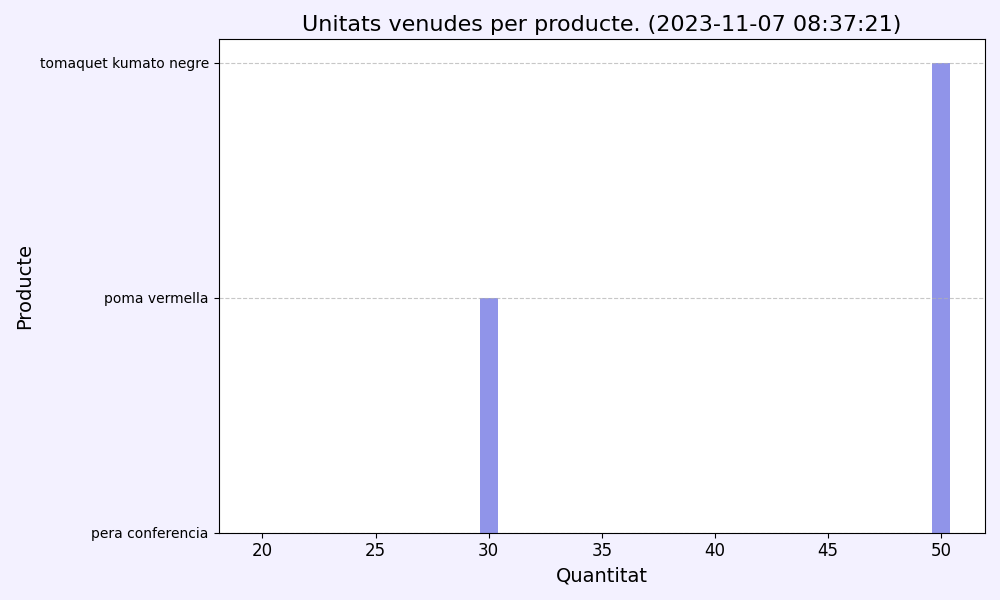
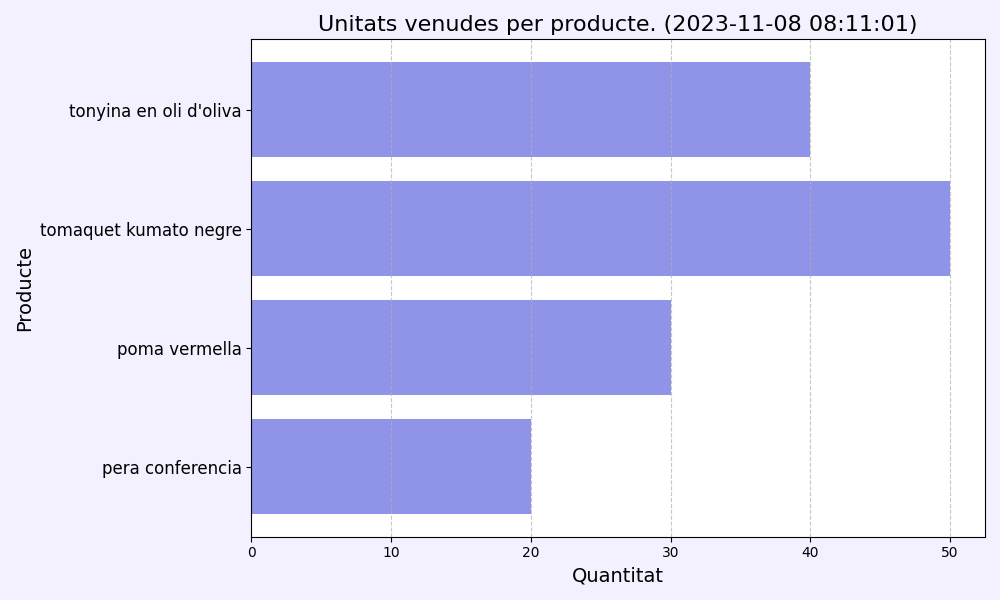
grafics de python amb disseny horitzontal

diff --git a/backend/node/estadistiques.py b/backend/node/estadistiques.py
@@ -46,11 +46,11 @@ def obtener_productos_vendidos(cursor):
 
 
 def graficoCantidadVendida(df, filename):
-    """Crea un gráfico de barras a partir de un DataFrame."""
+    """Crea un gráfico de barras horizontales a partir de un DataFrame."""
     plt.figure(figsize=(10, 6), facecolor='#f3f1ff')  # Establecer el color de fondo de toda la figura
     
-    # Crear un gráfico de barras con puntas redondas y color personalizado
-    plt.bar(df['cantidad_vendida'], df['producto'], color='#9094e9', capstyle='round')
+    # Crear un gráfico de barras horizontales con puntas redondas y color personalizado
+    plt.barh(df['producto'], df['cantidad_vendida'], color='#9094e9', capstyle='round')
     
     # Obtener la fecha actual
     fecha_actual = datetime.now().strftime('%Y-%m-%d %H:%M:%S')
@@ -58,12 +58,12 @@ def graficoCantidadVendida(df, filename):
     # Utilizar la fecha actual en el título del gráfico
     plt.title(f'Unitats venudes per producte. ({fecha_actual})', fontsize=16)
    
-    plt.xticks(fontsize=12)
-    plt.ylabel('Producte', fontsize=14)
+    plt.yticks(fontsize=12)
     plt.xlabel('Quantitat', fontsize=14)
+    plt.ylabel('Producte', fontsize=14)
     
     # Eliminar la cuadrícula horizontal
-    plt.grid(axis='y', linestyle='--', alpha=0.7)
+    plt.grid(axis='x', linestyle='--', alpha=0.7)
     
     # Guardar la figura en un archivo
     plt.tight_layout()
@@ -71,24 +71,24 @@ def graficoCantidadVendida(df, filename):
     plt.close()
     
 def graficoCantidad(df, filename):
-    """Crea un gráfico de barras a partir de un DataFrame."""
+    """Crea un gráfico de barras horizontales a partir de un DataFrame."""
     plt.figure(figsize=(10, 6), facecolor='#f3f1ff')  # Establecer el color de fondo de toda la figura
     
-    # Crear un gráfico de barras con puntas redondas y color personalizado
-    plt.bar(df['quantitat'], df['nom'], color='#9094e9', capstyle='round')
+    # Crear un gráfico de barras horizontales con puntas redondas y color personalizado
+    plt.barh(df['nom'], df['quantitat'], color='#9094e9', capstyle='round')
     
     # Obtener la fecha actual
     fecha_actual = datetime.now().strftime('%Y-%m-%d %H:%M:%S')
    
     # Utilizar la fecha actual en el título del gráfico
-    plt.title(f'Unitats restants productes({fecha_actual})', fontsize=16)
+    plt.title(f'Unitats restants productes ({fecha_actual})', fontsize=16)
    
-    plt.xticks(fontsize=12)
-    plt.ylabel('Productes', fontsize=14)
+    plt.yticks(fontsize=12)
     plt.xlabel('Quantitat', fontsize=14)
+    plt.ylabel('Productes', fontsize=14)
     
     # Eliminar la cuadrícula horizontal
-    plt.grid(axis='y', linestyle='--', alpha=0.7)
+    plt.grid(axis='x', linestyle='--', alpha=0.7)
     
     # Guardar la figura en un archivo
     plt.tight_layout()
